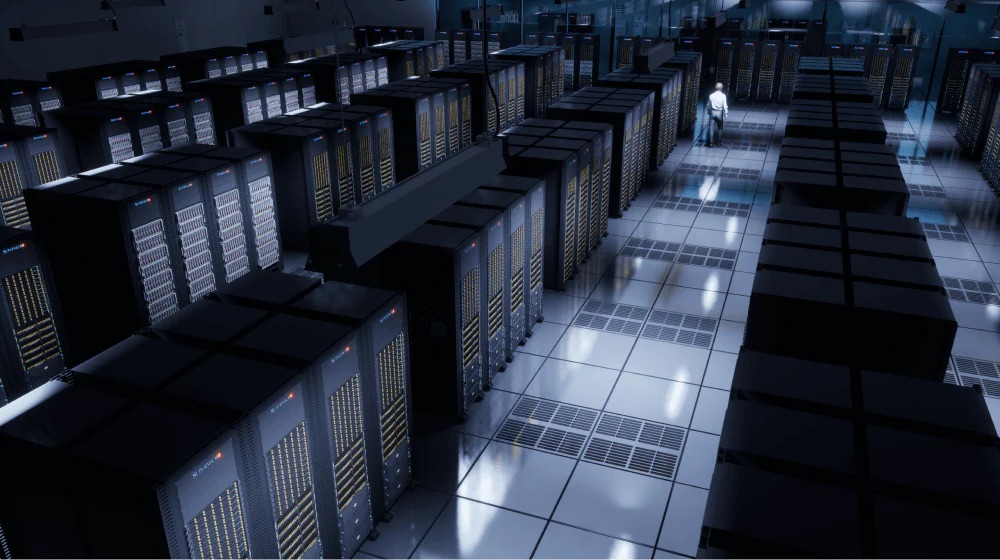
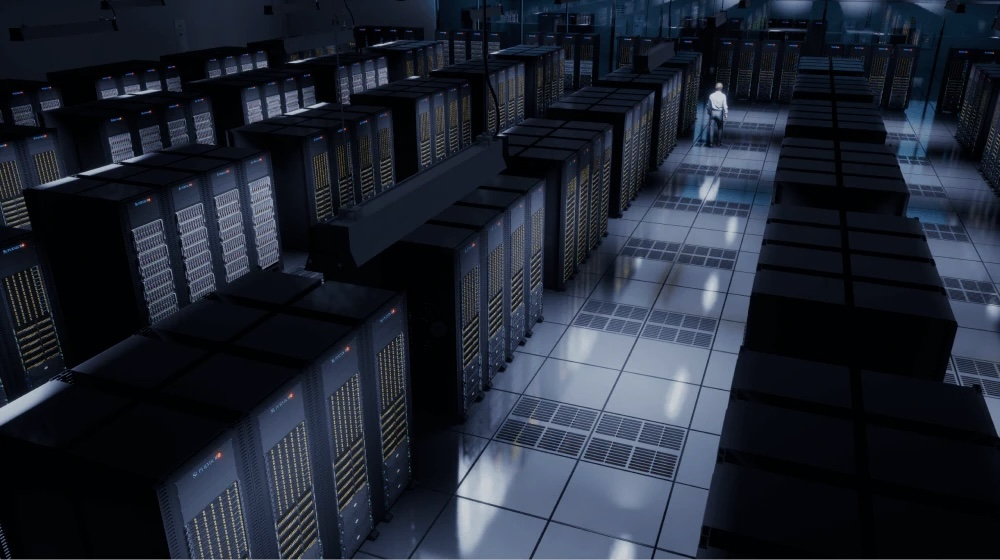
Update MemoryCustodian posts to include 'AI' and 'Agent' tags for enhanced categorization. Modify header images for improved visual consistency across the design series.

diff --git a/_posts/2026-07-21-memory-custodian-safe.md b/_posts/2026-07-21-memory-custodian-safe.md
@@ -13,6 +13,8 @@ tags:
     - Software Architecture
     - Local-First
     - Data Governance
+    - AI
+    - Agent
 ---
 
 > **MemoryCustodian Design Series · Part 3 of 3**

diff --git a/_posts/2026-07-01-memory-custodian.md b/_posts/2026-07-01-memory-custodian.md
@@ -13,6 +13,8 @@ tags:
     - Software Architecture
     - Local-First
     - CLI
+    - AI
+    - Agent
 ---
 
 > **MemoryCustodian Design Series · Part 1 of 3**

diff --git a/_posts/2026-07-20-memory-custodian-tech-design.md b/_posts/2026-07-20-memory-custodian-tech-design.md
@@ -14,6 +14,8 @@ tags:
     - Local-First
     - Markdown
     - Git
+    - AI
+    - Agent
 ---
 
 > **MemoryCustodian Design Series · Part 2 of 3**
